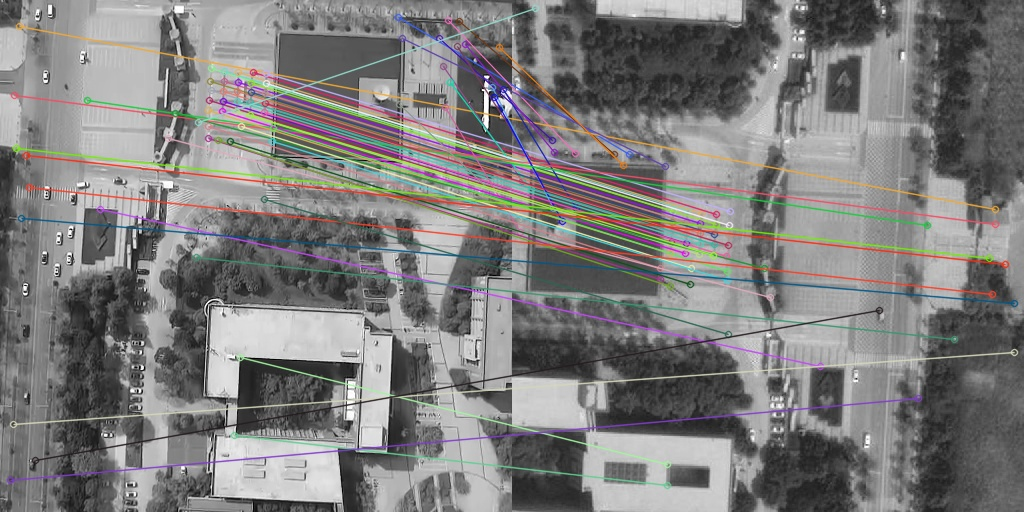
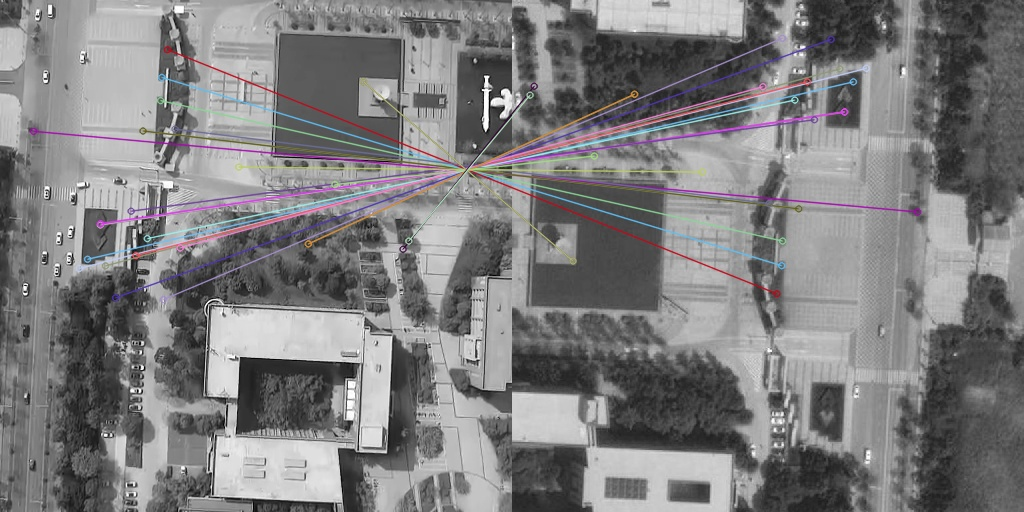
Update Results

diff --git a/app.py b/app.py
@@ -171,12 +171,15 @@ class NwpuNet:
         for idx, candi_path in enumerate(self.top_k_paths):
             # convert bit-class to utf-8 class
             candi_path = [p.decode('utf-8') for p in candi_path]
-            candi_best_path = superglue_candidate_match(qu_ad[idx], candi_path)
-            matches, registration = superglue_match(qu_ad[idx], candi_best_path)
+            candi_best_path = sift_candidate_match_pro(qu_ad[idx], candi_path)
+            matches, registration = sift_match_pro(qu_ad[idx], candi_best_path)
+            # 读取保存查询和候选图像
+            query_img = cv2.imread(qu_ad[idx]); cv2.imwrite(os.path.join(self.args.save_visual, 'query',f'query_{matches_num:06d}.jpg'), query_img)
+            candi_img = cv2.imread(candi_best_path); cv2.imwrite(os.path.join(self.args.save_visual, 'candidate',f'candi_{matches_num:06d}.jpg'), candi_img)
             # save registrated img into output dir
             if not os.path.exists(self.args.save_visual):
                 os.makedirs(self.args.save_visual)
-            cv2.imwrite(os.path.join(self.args.save_visual, 'supo+sugl',f'output_{matches_num:06d}.jpg'),registration)
+            cv2.imwrite(os.path.join(self.args.save_visual, 'sift+ransac',f'output_{matches_num:06d}.jpg'),registration)
             print(f'匹配关键点数目:\t{len(matches)}\t匹配结果路径:\toutput_{matches_num:06d}.jpg')
             matches_num += 1
             if len(matches) > 20:

diff --git a/README.md b/README.md
@@ -1,6 +1,9 @@
 # :rocket: Visual Locator :rocket:
 
-his project designs an absolute visual positioning software for drones based on deep learning. The design process of the software is to train on the server using eight RTX3090 graphics cards with a video memory of 24G to obtain an image retrieval model. Then, when the recall rates of the top 1, 5, 10, and 20 of the model on the test set meet certain requirements, save the model weights for subsequent calls. Then, it is necessary to perform image registration tests on the top K images retrieved. We provide SIFT, SuperPoint, and LoFTR training and test model weights for testing and registration, and provide different registration model algorithms for different scenarios such as seasonal changes and lighting changes.  
+This project designs an absolute visual positioning software for drones based on deep learning. The design process of the software is to train on the server using eight RTX3090 graphics cards with a video memory of 24G to obtain an image retrieval model. Then, when the recall rates of the top 1, 5, 10, and 20 of the model on the test set meet certain requirements, save the model weights for subsequent calls. Then, it is necessary to perform image registration tests on the top K images retrieved. We provide SIFT, SuperPoint, and LoFTR training and test model weights for testing and registration, and provide different registration model algorithms for different scenarios such as seasonal changes and lighting changes.  
+<div align='center'>
+<img src='assets/project_struture.jpg'>
+</div>
 
 ## 1.Project Structure :fire:
 
@@ -8,6 +11,9 @@ The main design idea of the software is through a two-stage method of image retr
 
 | Query Image | Reference Image | Retrieved Image |
 | :---: | :---: | :---: |
-| ![query image](output/query.jpg) | ![reference image](output/candi.jpg) | ![retrieved image](output/output.jpg) |
+| ![query image](output/query/query_000000.jpg) | ![reference image](output/candidate/candi_000000.jpg) | ![retrieved image](output/sift+ransac/output_000000.jpg) |
+| ![query image](output/query/query_000001.jpg) | ![reference image](output/candidate/candi_000001.jpg) | ![retrieved image](output/sift+ransac/output_000001.jpg) |
+| ![query image](output/query/query_0000002.jpg) | ![reference image](output/candidate/candi_000002.jpg) | ![retrieved image](output/sift+ransac/output_000002.jpg) |
+| ![query image](output/query/query_000003.jpg) | ![reference image](output/candidate/candi_000003.jpg) | ![retrieved image](output/sift+ransac/output_000003.jpg) |
 
 ## Continuously Updating
